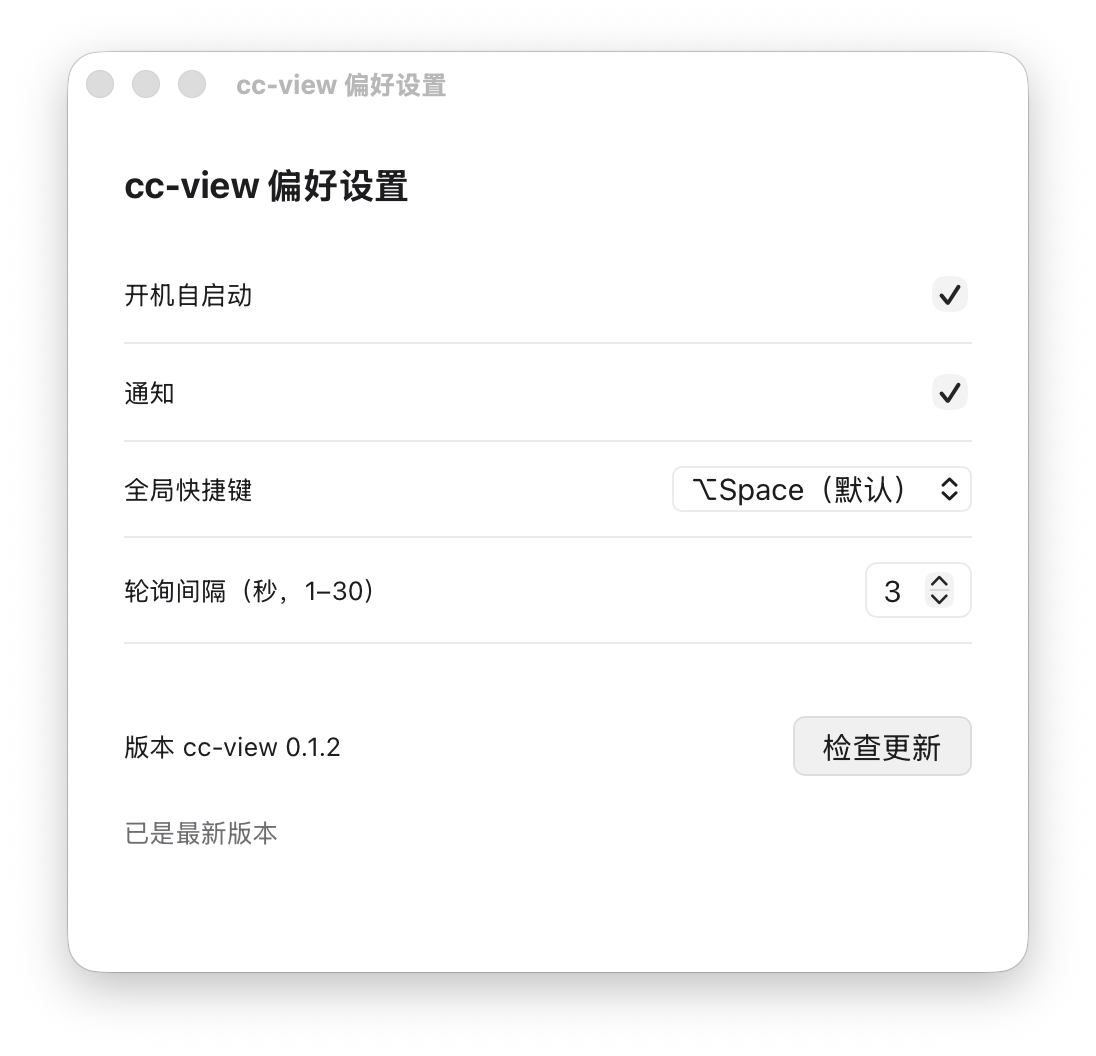
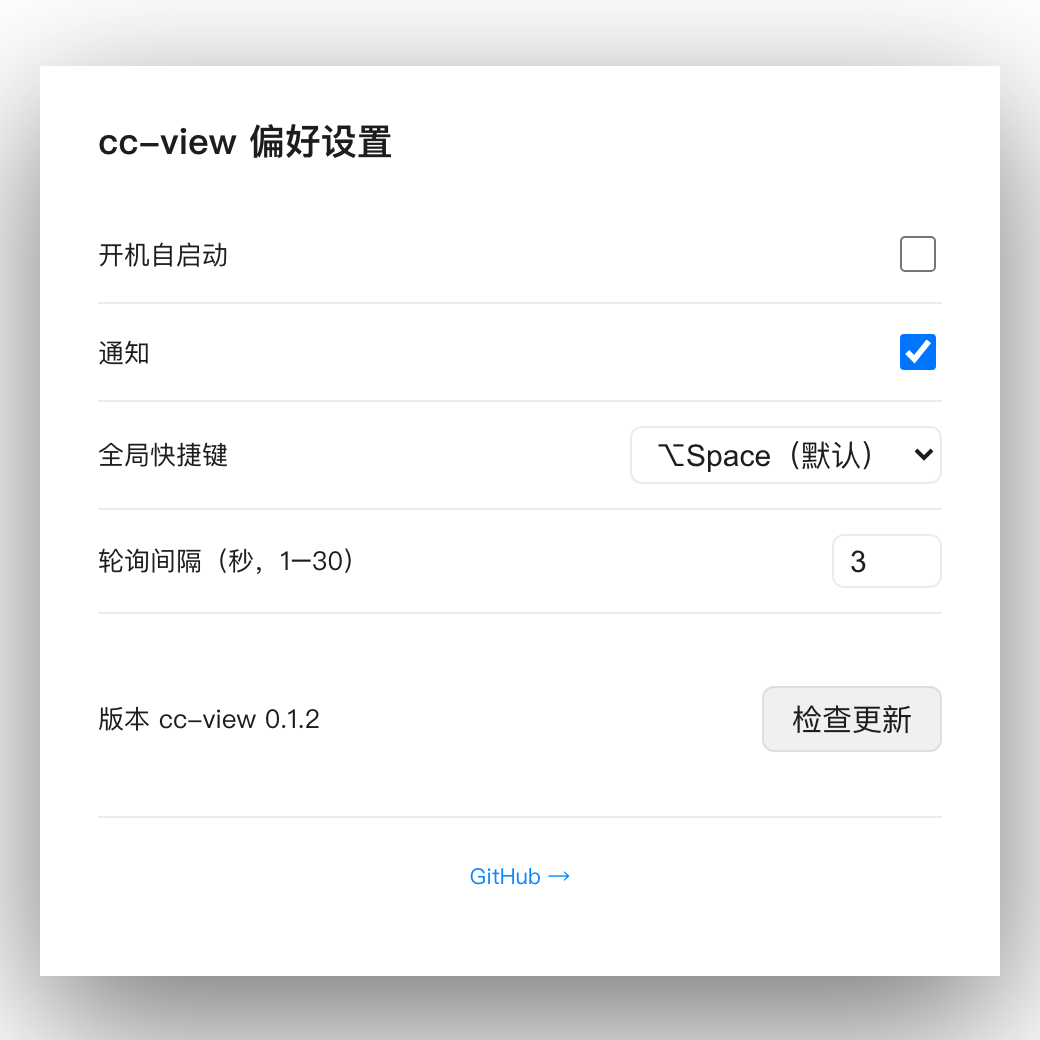
docs: 浏览器 mock 截图框架 + 多场景截图
- 加 src/mock/（mock Tauri API + 场景数据）+ vite.config alias（CC_VIEW_MOCK=1 生效）
- 截图：overlay 混合 / 等权限突出 / 闲置降级 / 偏好设置（gstack headless 截，mock 数据 + 毛玻璃 + 窗口边框阴影）
- README 截图段加 permission/idle 场景

diff --git a/src/mock/api.ts b/src/mock/api.ts
@@ -1,0 +1,107 @@
+// 截图 mock：浏览器渲染 cc-view UI（Overlay/Preferences）+ mock 数据。
+// CC_VIEW_MOCK=1 时 vite alias 把 @tauri-apps/api/{core,event,webviewWindow,app} 指向本文件。
+import type { Session } from '../types';
+
+// === mock 数据 ===
+const now = Date.now();
+const MIN = 60_000, HOUR = 60 * MIN, DAY = 24 * HOUR;
+
+function mk(o: Partial<Session> & Pick<Session, 'id' | 'project' | 'name' | 'status'>): Session {
+  return {
+    source: 'interactive',
+    pid: 1,
+    cwd: o.project,
+    startedAt: now - HOUR,
+    statusUpdatedAt: now - 5 * MIN,
+    alive: true,
+    focusHint: { host: 'Ghostty' },
+    snoozed: false,
+    ...o,
+  } as Session;
+}
+
+const scenes: Record<string, Session[]> = {
+  // 默认：混合各状态（最能展示）
+  default: [
+    mk({ id: 's1', project: '/Users/dev/api-server', name: 'refactor-auth', status: 'needsPermission', statusUpdatedAt: now - 30_000 }),
+    mk({ id: 's2', project: '/Users/dev/api-server', name: 'add-tests', status: 'working', statusUpdatedAt: now - 2 * MIN }),
+    mk({ id: 's3', project: '/Users/dev/web-client', name: 'fix-navbar', status: 'waitingForReply', statusUpdatedAt: now - 60_000 }),
+    mk({ id: 's4', project: '/Users/dev/cli-tool', name: 'write-docs', status: 'waitingForInput', statusUpdatedAt: now - 90_000 }),
+    mk({ id: 's5', project: '/Users/dev/legacy-app', name: 'cleanup-logs', status: 'working', statusUpdatedAt: now - DAY, alive: false }),
+  ],
+  // 等权限突出（橙边）
+  permission: [
+    mk({ id: 's1', project: '/Users/dev/api-server', name: 'deploy-prod', status: 'needsPermission', statusUpdatedAt: now - 20_000 }),
+    mk({ id: 's2', project: '/Users/dev/api-server', name: 'migrate-db', status: 'needsPermission', statusUpdatedAt: now - 80_000 }),
+    mk({ id: 's3', project: '/Users/dev/web-client', name: 'feature-x', status: 'working', statusUpdatedAt: now - 3 * MIN }),
+  ],
+  // 闲置（等输入超 30min 灰显 + 整组下沉）
+  idle: [
+    mk({ id: 's1', project: '/Users/dev/web-client', name: 'feature-x', status: 'working', statusUpdatedAt: now - 2 * MIN }),
+    mk({ id: 's2', project: '/Users/dev/legacy-app', name: 'waiting-task', status: 'waitingForInput', statusUpdatedAt: now - 45 * MIN }),
+    mk({ id: 's3', project: '/Users/dev/legacy-app', name: 'another-old', status: 'waitingForInput', statusUpdatedAt: now - 2 * HOUR }),
+  ],
+};
+
+function sceneSessions(): Session[] {
+  const scene = new URLSearchParams(location.search).get('scene') || 'default';
+  return scenes[scene] || scenes.default;
+}
+
+// === 毛玻璃模拟：body 深色渐变（模拟桌面）+ overlay backdrop-filter ===
+if (typeof document !== 'undefined') {
+  const style = document.createElement('style');
+  style.textContent = `
+    html, body { margin: 0; height: 100vh; }
+    body {
+      background: linear-gradient(135deg, #2d2d44 0%, #1a1a2e 50%, #16213e 100%);
+      display: flex; align-items: center; justify-content: center;
+    }
+    /* 模拟真 app 的窗口边框 + 系统阴影（NSWindow shadow）*/
+    .overlay, .prefs {
+      min-height: auto !important;
+      backdrop-filter: blur(24px) saturate(180%);
+      -webkit-backdrop-filter: blur(24px) saturate(180%);
+      border: 1px solid rgba(255, 255, 255, 0.12);
+      box-shadow: 0 24px 70px rgba(0, 0, 0, 0.55);
+    }
+    .overlay { width: 560px; }
+    .prefs { width: 480px; }
+  `;
+  document.head.appendChild(style);
+}
+
+// === @tauri-apps/api/core: invoke ===
+export async function invoke<T = unknown>(cmd: string, _args?: Record<string, unknown>): Promise<T> {
+  switch (cmd) {
+    case 'get_sessions': return sceneSessions() as unknown as T;
+    case 'list_archived':
+    case 'list_hidden': return [] as unknown as T;
+    case 'get_overlay_pinned': return false as unknown as T;
+    case 'get_prefs': return { notify: true, shortcut: 'alt+space', poll_interval: 3 } as unknown as T;
+    case 'get_autostart': return false as unknown as T;
+    default: return undefined as unknown as T; // 写操作 noop
+  }
+}
+
+// === @tauri-apps/api/event: listen（mock：不触发，数据固定）===
+export async function listen<T = unknown>(_event: string, _handler: (e: { payload: T }) => void): Promise<() => void> {
+  return () => {};
+}
+
+// === @tauri-apps/api/webviewWindow: getCurrentWebviewWindow ===
+export function getCurrentWebviewWindow() {
+  const view = new URLSearchParams(location.search).get('view') || 'overlay';
+  return {
+    label: view,
+    hide: async () => {},
+    show: async () => {},
+    setFocus: async () => {},
+    onFocusChanged: async (_cb: (e: { payload: boolean }) => void) => () => {},
+  };
+}
+
+// === @tauri-apps/api/app: getVersion ===
+export async function getVersion(): Promise<string> {
+  return '0.1.2';
+}

diff --git a/vite.config.ts b/vite.config.ts
@@ -1,12 +1,26 @@
 import { defineConfig } from "vite";
 import vue from "@vitejs/plugin-vue";
+import path from "path";
 
 // @ts-expect-error process is a nodejs global
 const host = process.env.TAURI_DEV_HOST;
 
+// 截图 mock：CC_VIEW_MOCK=1 时把 @tauri-apps/* 指向 src/mock/*（浏览器渲染 + mock 数据，供 gstack 截图）
+const mockAlias = process.env.CC_VIEW_MOCK
+  ? {
+      "@tauri-apps/api/core": path.resolve(__dirname, "src/mock/api.ts"),
+      "@tauri-apps/api/event": path.resolve(__dirname, "src/mock/api.ts"),
+      "@tauri-apps/api/webviewWindow": path.resolve(__dirname, "src/mock/api.ts"),
+      "@tauri-apps/api/app": path.resolve(__dirname, "src/mock/api.ts"),
+      "@tauri-apps/plugin-updater": path.resolve(__dirname, "src/mock/plugins.ts"),
+      "@tauri-apps/plugin-process": path.resolve(__dirname, "src/mock/plugins.ts"),
+    }
+  : {};
+
 // https://vite.dev/config/
 export default defineConfig(async () => ({
   plugins: [vue()],
+  resolve: { alias: mockAlias },
 
   // Vite options tailored for Tauri development and only applied in `tauri dev` or `tauri build`
   //

diff --git a/src/mock/plugins.ts b/src/mock/plugins.ts
@@ -1,0 +1,17 @@
+// 截图 mock：@tauri-apps/plugin-updater + plugin-process
+// CC_VIEW_MOCK=1 时 vite alias 指向本文件。
+
+export type Update = {
+  version: string;
+  body?: string;
+  date?: string;
+  downloadAndInstall: (_onEvent?: (e: unknown) => void) => Promise<void>;
+};
+
+// mock：无更新（README 偏好设置截图显示「已是最新」）
+export async function check(): Promise<Update | null> {
+  return null;
+}
+
+// @tauri-apps/plugin-process: relaunch
+export async function relaunch(): Promise<void> {}

diff --git a/README.md b/README.md
@@ -8,9 +8,17 @@ cc-view 把所有会话聚合到 **menubar 一个图标**（hover 看「N 等我
 
 ## 截图
 
-**命令面板（⌥Space 呼出）**
+**命令面板（⌥Space 呼出）— 混合状态**
 
 ![命令面板](docs/screenshots/overlay.png)
+
+**等权限突出（橙边提醒）**
+
+![等权限](docs/screenshots/overlay-permission.png)
+
+**闲置降级（灰显 + 下沉）**
+
+![闲置](docs/screenshots/overlay-idle.png)
 
 **偏好设置**
 
